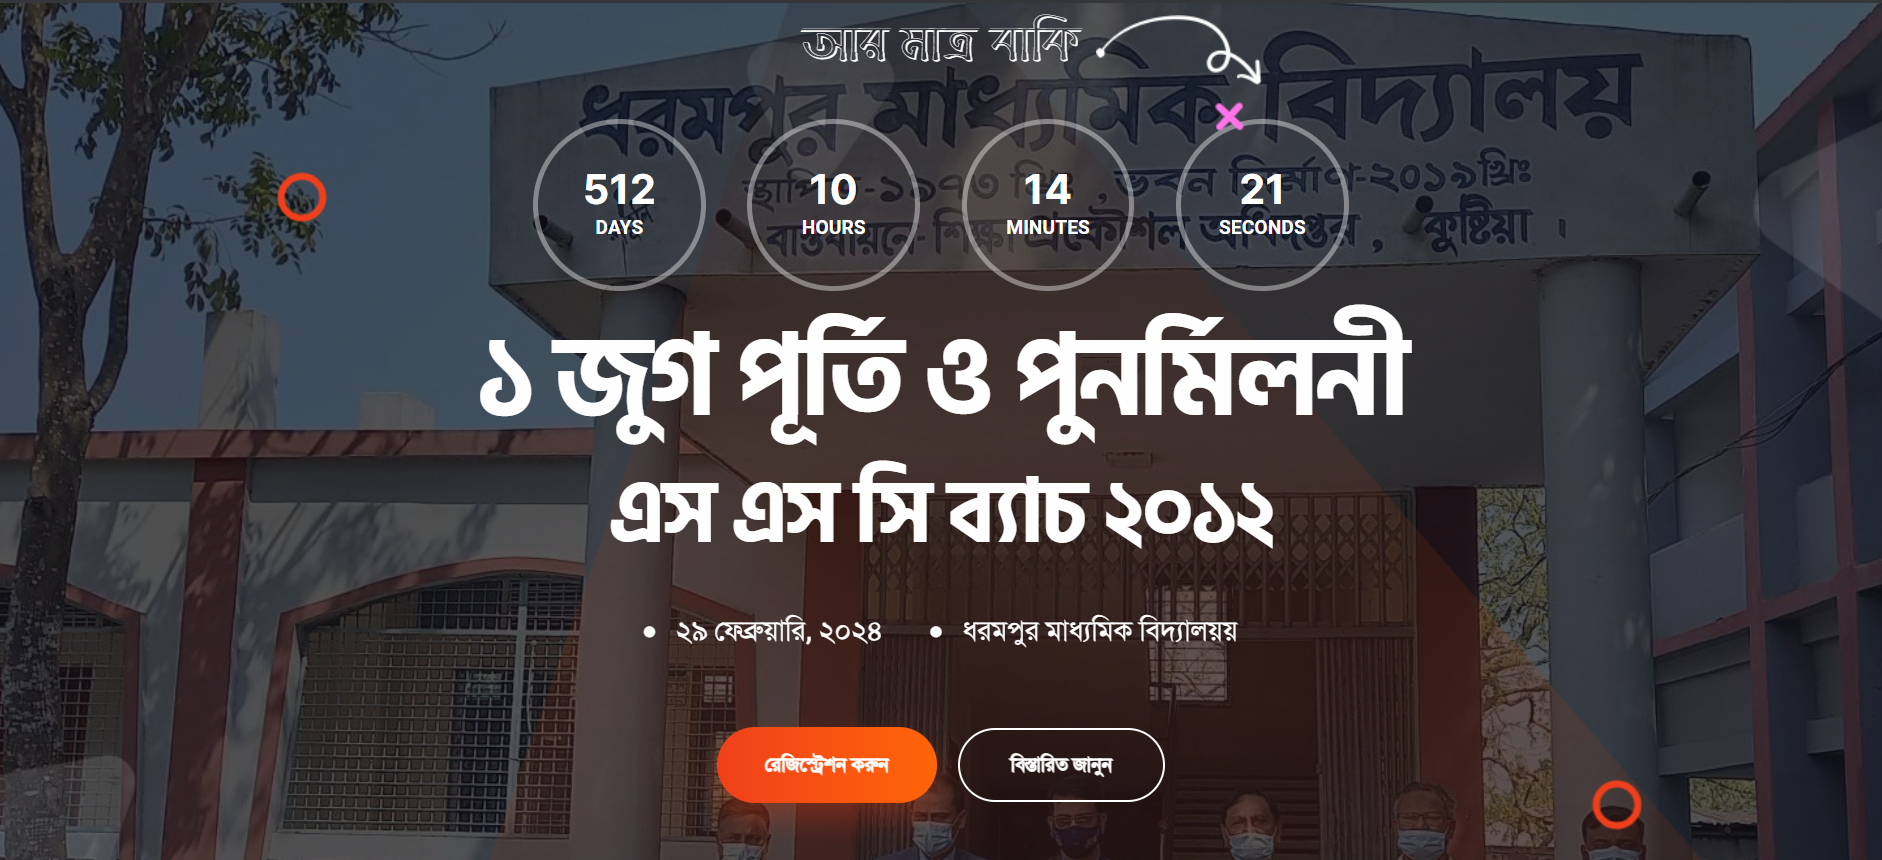
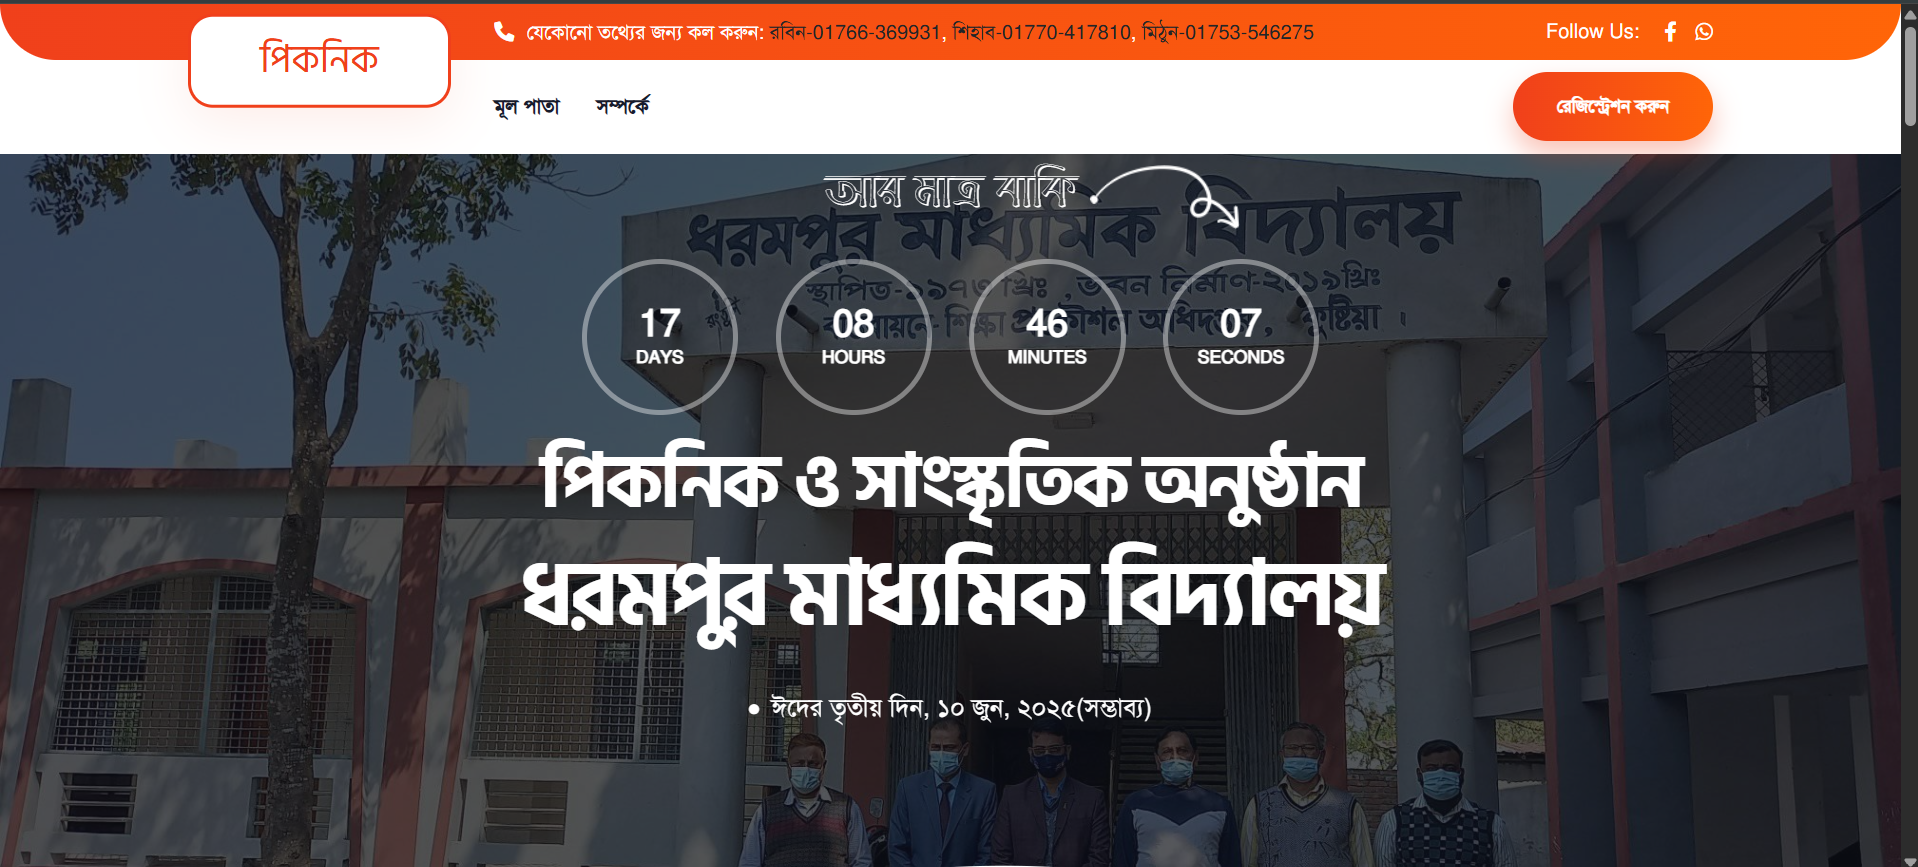
Meta FIx

diff --git a/src/home/banner/index.jsx b/src/home/banner/index.jsx
@@ -99,7 +99,7 @@ const CountdownHero = () => {
               data-ani="slideinup"
               data-ani-delay="0.2s"
             >
-              পিকনিক
+              পিকনিক ও সাংস্কৃতিক অনুষ্ঠান
             </h1>
             <h1
               className="hero-title"
@@ -115,7 +115,7 @@ const CountdownHero = () => {
               data-ani-delay="0.6s"
             >
               <span>
-                <i className="fas fa-circle"></i>ঈদের তৃতীয় দিন, ০৭ জুন, ২০২৫
+                <i className="fas fa-circle"></i>ঈদের তৃতীয় দিন, ১০ জুন, ২০২৫
                 {"(সম্ভাব্য)"}
               </span>{" "}
               {/* <span>
